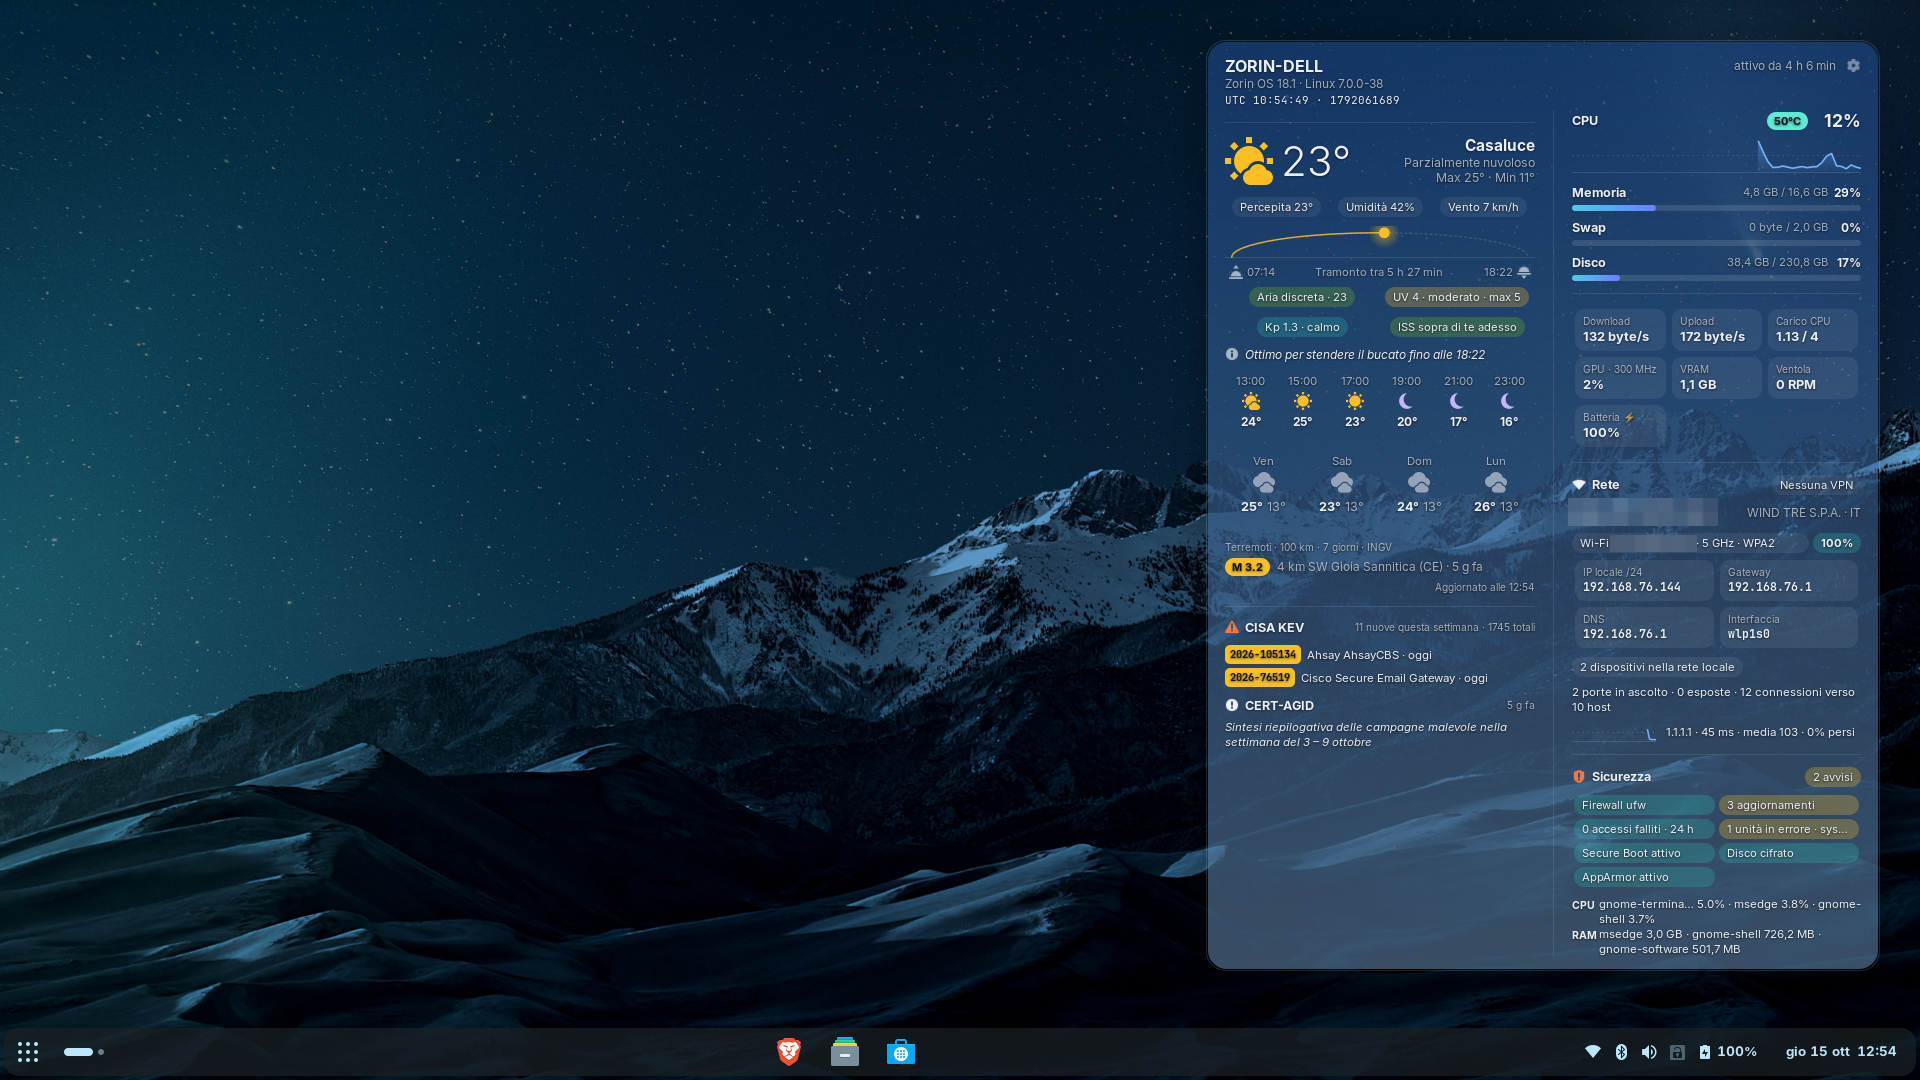
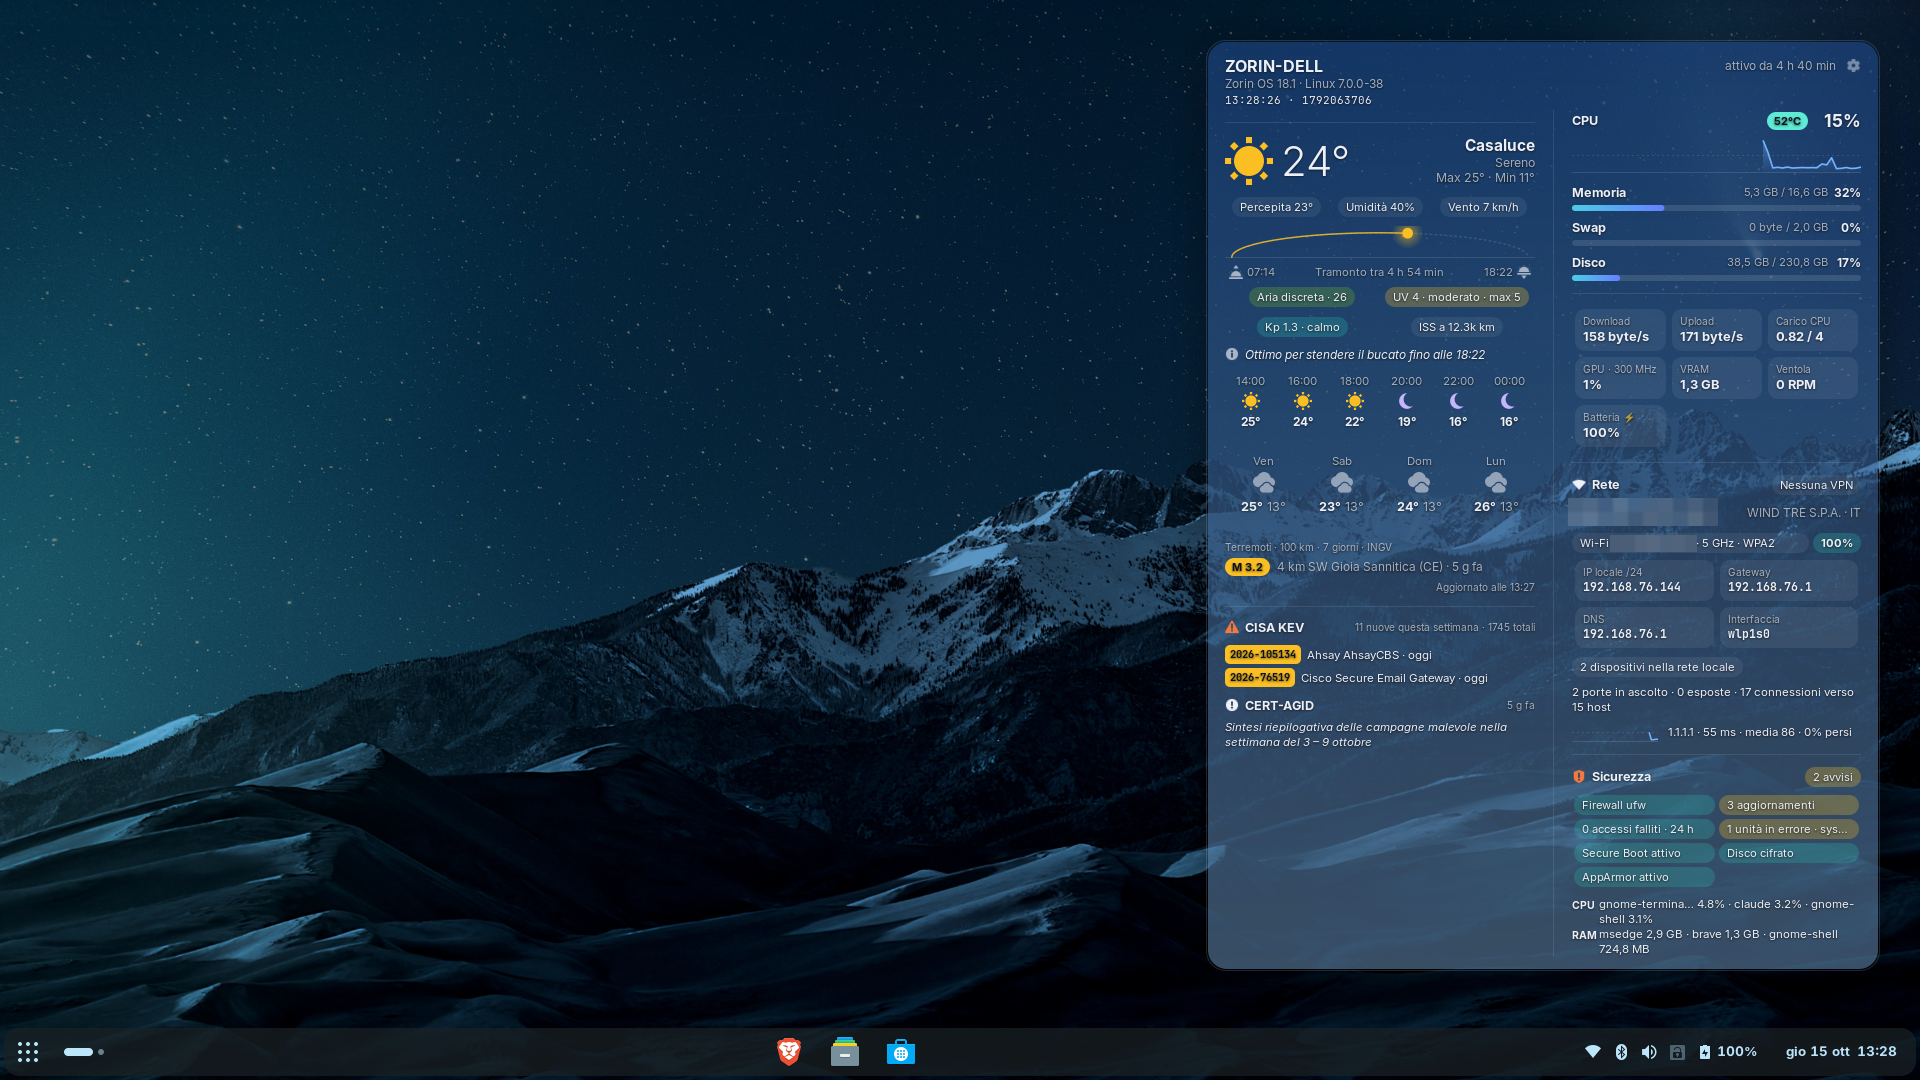
1.6.1: header clock shows the system time, with a clock-mode setting
The line under the computer name showed UTC; it now shows the system
time with seconds (12/24 h as in GNOME) followed by the Unix time. The
new 'Clock' row in the Content page can switch to the time at the
weather location, UTC, or system time and UTC. Screenshots retaken.

diff --git a/extension/lib/widget.js b/extension/lib/widget.js
@@ -11,7 +11,7 @@ import {KEV_CATALOGUE_URL} from './feeds.js';
 import {portLabel} from './network.js';
 import {weatherInfo} from './weather.js';
 import {
-    airInfo, clockLabel, dailyAdvice, dateLabel, formatDuration, hourMinuteLabel, issInfo, kpInfo, localToUnix,
+    airInfo, clockLabel, clockTimeLabel, dailyAdvice, dateLabel, formatDuration, hourMinuteLabel, issInfo, kpInfo, localToUnix,
     mix, moonPhase, nextMoonLabel, rainNowcast, skyColors, sunState, timeAgo, uvInfo, warningInfo, weekdayLabel,
 } from './sky.js';
 
@@ -786,8 +786,17 @@ class SysWeatherDesktopWidget extends St.Widget {
     }
 
     _updateClock() {
-        const now = GLib.DateTime.new_now_utc();
-        this._clock.text = `UTC ${now.format('%H:%M:%S')} · ${now.to_unix()}`;
+        const unix = Math.floor(Date.now() / 1000);
+        const mode = this._sections?.clockMode ?? 'local';
+        const parts = [];
+        if (mode === 'location')
+            parts.push(clockTimeLabel(unix, this._weatherData?.timezone));
+        else if (mode !== 'utc')
+            parts.push(clockTimeLabel(unix));
+        if (mode === 'utc' || mode === 'local-utc')
+            parts.push(`UTC ${clockTimeLabel(unix, 'UTC')}`);
+        parts.push(String(unix));
+        this._clock.text = parts.join(' · ');
     }
 
     _buildWeather() {
@@ -1182,10 +1191,12 @@ class SysWeatherDesktopWidget extends St.Widget {
         this._sections = sections;
         this._header.visible = sections.header;
         this._clock.visible = sections.header && sections.clock === true;
-        if (this._clock.visible)
+        if (this._clock.visible) {
+            this._updateClock();
             this._startClock();
-        else
+        } else {
             this._stopClock();
+        }
         this._weather.visible = sections.weather;
         this._system.visible = sections.system;
         this._details.visible = sections.details;

diff --git a/extension/lib/sky.js b/extension/lib/sky.js
@@ -162,6 +162,33 @@ export function clockLabel(unix, timezone, options = {}) {
     return hourMinuteLabel(hour % 24, minute, options);
 }
 
+const secondFormats = new Map();
+
+/**
+ * Formats an instant as "15:05:09" (or "3:05:09 PM") in a time zone.
+ *
+ * @param {number} unix seconds
+ * @param {string} [timezone] IANA zone; empty or unknown means the system zone
+ * @returns {string}
+ */
+export function clockTimeLabel(unix, timezone) {
+    const key = timezone ?? '';
+    let format = secondFormats.get(key);
+    if (!format) {
+        const spec = {hour: '2-digit', minute: '2-digit', second: '2-digit', hourCycle: 'h23'};
+        try {
+            format = new Intl.DateTimeFormat('en-GB', {...spec, timeZone: timezone || undefined});
+        } catch {
+            format = new Intl.DateTimeFormat('en-GB', spec);
+        }
+        secondFormats.set(key, format);
+    }
+    const [hour, minute, second] = format.format(new Date(unix * 1000)).split(':').map(Number);
+    const label = hourMinuteLabel(hour % 24, minute);
+    // "15:05" -> "15:05:09", "3:05 PM" -> "3:05:09 PM"
+    return label.replace(/^(\d{1,2}:\d{2})/, `$1:${pad2(second)}`);
+}
+
 /**
  * @param {number} seconds a duration
  * @returns {string} e.g. "3 h 20 min"

diff --git a/extension/extension.js b/extension/extension.js
@@ -41,7 +41,7 @@ const PUBLIC_IP_DEBOUNCE_SECONDS = 6;
 const APPEARANCE_KEYS = ['theme', 'background-opacity', 'scale', 'sky-background', 'columns'];
 const SECTION_KEYS = [
     'show-header', 'show-weather', 'show-forecast', 'show-hourly', 'show-system', 'show-details',
-    'show-rain', 'show-sun', 'show-air', 'show-advice', 'show-quakes', 'show-clock',
+    'show-rain', 'show-sun', 'show-air', 'show-advice', 'show-quakes', 'show-clock', 'clock-mode',
     'show-processes', 'show-network', 'show-ports', 'show-latency', 'show-security',
     'show-feeds', 'show-cert-agid', 'show-space', 'show-alerts',
 ];
@@ -579,6 +579,7 @@ export default class DesktopSysWeatherExtension extends Extension {
             system: s.get_boolean('show-system'),
             details: s.get_boolean('show-details'),
             clock: s.get_boolean('show-clock'),
+            clockMode: s.get_string('clock-mode'),
             processes: s.get_boolean('show-processes'),
             network: s.get_boolean('show-network'),
             ports: s.get_boolean('show-ports'),

diff --git a/extension/prefs.js b/extension/prefs.js
@@ -409,8 +409,14 @@ export default class DesktopSysWeatherPreferences extends ExtensionPreferences {
 
         const sections = new Adw.PreferencesGroup({title: _('Sections')});
         sections.add(switchRow(settings, 'show-header', _('Computer name and uptime')));
-        sections.add(switchRow(settings, 'show-clock', _('UTC clock and Unix time'),
+        sections.add(switchRow(settings, 'show-clock', _('Clock and Unix time'),
             _('Shown under the computer name')));
+        sections.add(comboRow(settings, 'clock-mode', _('Clock'), [
+            ['local', _('System time')],
+            ['location', _('Time at the weather location')],
+            ['utc', _('UTC')],
+            ['local-utc', _('System time and UTC')],
+        ], _('The Unix time always follows')));
         sections.add(switchRow(settings, 'show-weather', _('Current weather')));
         sections.add(switchRow(settings, 'show-alerts', _('Weather warnings'),
             _('Alerts of the national weather service for your region, relayed by MeteoAlarm (Europe)')));

diff --git a/README.md b/README.md
@@ -73,8 +73,9 @@ locale senza privilegi (NetworkManager via D-Bus, `/proc`, `/sys`, systemd e log
 - **Notifiche desktop** quando la VPN cade, quando cinque o più accessi falliscono tra due
   controlli, per le allerte meteo arancioni e rosse e quando CISA aggiunge al catalogo KEV una
   vulnerabilità usata da ransomware (le CVE già viste non vengono ripetute al login)
-- **Orologio UTC e tempo Unix** sotto il nome del computer; tutti gli altri orari seguono il
-  formato 12 o 24 ore scelto nelle impostazioni di GNOME
+- **Orologio e tempo Unix** sotto il nome del computer: ora di sistema con i secondi (oppure, a
+  scelta, ora della località meteo, UTC, o sistema e UTC insieme) e tempo Unix; tutti gli orari
+  seguono il formato 12 o 24 ore scelto nelle impostazioni di GNOME
 - **Temi Terminal**: oltre a scuro e chiaro, due temi a fosfori (verde e ambra) con font
   monospace, grafici a blocchi e scanline
 - **Due colonne**: meteo e feed a sinistra, sistema, rete e sicurezza a destra (predefinito),
@@ -100,6 +101,7 @@ locale senza privilegi (NetworkManager via D-Bus, `/proc`, `/sys`, systemd e log
 | Posizione meteo | Automatica (servizi di localizzazione di sistema, altrimenti IP) oppure città cercata per nome |
 | Unità | Metriche (°C, km/h) o imperiali (°F, mph) |
 | Terremoti | Magnitudo minima e raggio di ricerca in km |
+| Orologio | Ora di sistema / località meteo / UTC / sistema e UTC, sempre con il tempo Unix |
 | Sezioni | Ogni blocco si può nascondere: allerte meteo, prossime ore, pioggia, sole e luna, aria, meteo spaziale, consiglio, previsioni, terremoti, sistema, processi, rete, porte, latenza, sicurezza, feed… |
 | Rete | Host per la latenza, intervalli di aggiornamento, maschera dell'IP pubblico |
 | Sicurezza | Dettagli al passaggio del mouse (attivabile/disattivabile), intervallo di controllo |
@@ -156,7 +158,7 @@ costruiscono dai sorgenti con `./build.py` (vedi [Sviluppo](#sviluppo)).
 ### Pacchetto .deb (Zorin OS, Ubuntu, Debian)
 
 ```bash
-sudo apt install ./gnome-shell-extension-desktop-sysweather_1.6.0_all.deb
+sudo apt install ./gnome-shell-extension-desktop-sysweather_1.6.1_all.deb
 ```
 
 Poi **esci e rientra** nella sessione e attiva il widget dall'app *Estensioni*, oppure con

diff --git a/README.en.md b/README.en.md
@@ -74,8 +74,9 @@ without privileges (NetworkManager over D-Bus, `/proc`, `/sys`, systemd and logi
 - **Desktop notifications** when the VPN drops, when five or more logins fail between two
   checks, for orange and red weather warnings and when CISA adds a ransomware-related
   vulnerability to the KEV catalogue (CVEs already seen are not repeated at login)
-- **UTC clock and Unix time** below the computer name; every other time follows the 12 or
-  24-hour format chosen in the GNOME settings
+- **Clock and Unix time** below the computer name: system time with seconds (or, by choice,
+  the time at the weather location, UTC, or system time and UTC together) and Unix time; every
+  time follows the 12 or 24-hour format chosen in the GNOME settings
 - **Terminal themes**: besides dark and light, two phosphor themes (green and amber) with a
   monospace font, block graphs and scanlines
 - **Two columns**: weather and feeds on the left, system, network and security on the right
@@ -101,6 +102,7 @@ without privileges (NetworkManager over D-Bus, `/proc`, `/sys`, systemd and logi
 | Weather location | Automatic (system location services, otherwise IP) or a city searched by name |
 | Units | Metric (°C, km/h) or imperial (°F, mph) |
 | Earthquakes | Minimum magnitude and search radius in km |
+| Clock | System time / weather location / UTC / system and UTC, always with the Unix time |
 | Sections | Every block can be hidden: weather warnings, next hours, rain, sun and moon, air, space weather, tip, forecast, earthquakes, system, processes, network, ports, latency, security, feeds… |
 | Network | Latency host, refresh intervals, public IP mask |
 | Security | Details on hover (on/off), check interval |
@@ -155,7 +157,7 @@ them from source with `./build.py` (see [Development](#development)).
 ### .deb package (Zorin OS, Ubuntu, Debian)
 
 ```bash
-sudo apt install ./gnome-shell-extension-desktop-sysweather_1.6.0_all.deb
+sudo apt install ./gnome-shell-extension-desktop-sysweather_1.6.1_all.deb
 ```
 
 Then **log out and back in** and enable the widget from the *Extensions* app, or with

diff --git a/CHANGELOG.md b/CHANGELOG.md
@@ -2,6 +2,15 @@
 
 Tutte le modifiche rilevanti del widget. Le date sono quelle di build dei pacchetti.
 
+## 1.6.1 — 2026-10-15
+
+- **Orologio nell'intestazione**: ora mostra l'**ora di sistema** (con i secondi, nel formato 12 o
+  24 ore di GNOME) seguita dal tempo Unix, invece dell'ora UTC. Nella pagina Contenuto delle
+  preferenze la nuova riga *Orologio* permette di scegliere l'ora di sistema, l'ora della località
+  meteo (utile con una città in un altro fuso orario), l'ora UTC come prima, oppure ora di sistema
+  e UTC insieme.
+- Screenshot della documentazione rifatti a 1920x1080.
+
 ## 1.6.0 — 2026-10-14
 
 - **Scelta della lingua** nelle preferenze (pagina Aspetto): *Lingua di sistema*, *English* o
